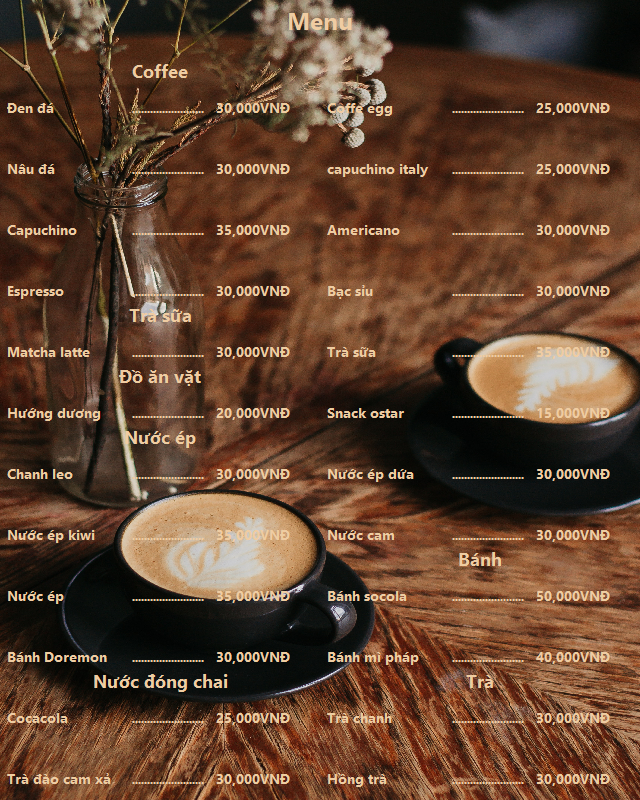
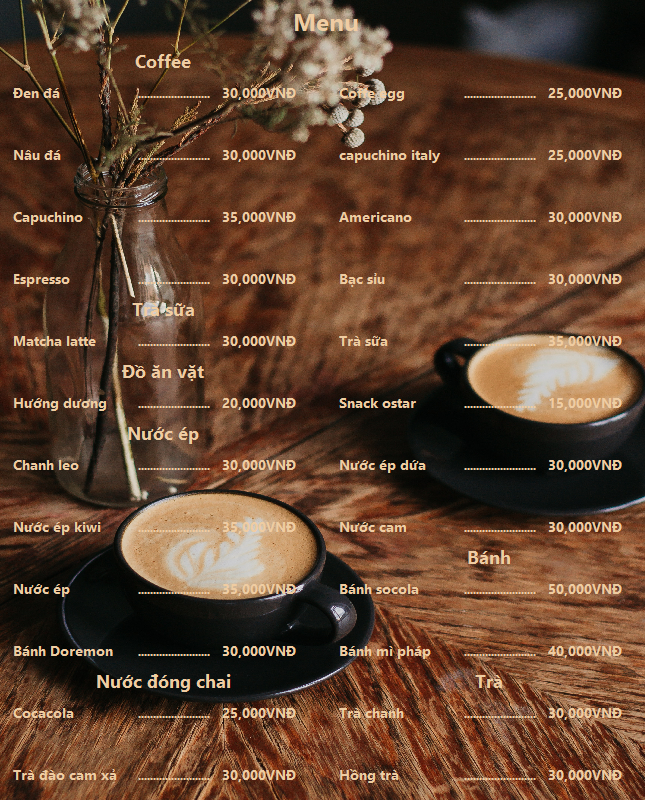
-menu better

diff --git a/src/main/java/com/view/form_Template/GenMenuFrame.java b/src/main/java/com/view/form_Template/GenMenuFrame.java
@@ -45,9 +45,14 @@ public class GenMenuFrame extends javax.swing.JFrame {
     private ArrayList<paneOfmenu> lstPaneMenu = new ArrayList<>();
     private ArrayList<ChiTietDoUong> lstChiTietDoUong = new ArrayList<>();
     private paneOfmenu paneMenu;
+
     public GenMenuFrame() {
         initComponents();
+        this.pack();
+        this.setLocationRelativeTo(null);
+        this.setVisible(true);
         panelMenuDisplay.setLayout(new BorderLayout());
+        panelMenuDisplay.setPreferredSize(new Dimension(650, 800));
         loadFirstAppear();
 //        this.setLayout(new BorderLayout());
     }
@@ -81,7 +86,7 @@ public class GenMenuFrame extends javax.swing.JFrame {
         panelMenuDisplay.setLayout(panelMenuDisplayLayout);
         panelMenuDisplayLayout.setHorizontalGroup(
             panelMenuDisplayLayout.createParallelGroup(javax.swing.GroupLayout.Alignment.LEADING)
-            .addGap(0, 618, Short.MAX_VALUE)
+            .addGap(0, 629, Short.MAX_VALUE)
         );
         panelMenuDisplayLayout.setVerticalGroup(
             panelMenuDisplayLayout.createParallelGroup(javax.swing.GroupLayout.Alignment.LEADING)
@@ -96,16 +101,19 @@ public class GenMenuFrame extends javax.swing.JFrame {
             layout.createParallelGroup(javax.swing.GroupLayout.Alignment.LEADING)
             .addGroup(layout.createSequentialGroup()
                 .addContainerGap(16, Short.MAX_VALUE)
-                .addGroup(layout.createParallelGroup(javax.swing.GroupLayout.Alignment.TRAILING)
-                    .addComponent(jButton3)
-                    .addComponent(jScrollPane1, javax.swing.GroupLayout.PREFERRED_SIZE, javax.swing.GroupLayout.DEFAULT_SIZE, javax.swing.GroupLayout.PREFERRED_SIZE))
-                .addContainerGap(17, Short.MAX_VALUE))
+                .addGroup(layout.createParallelGroup(javax.swing.GroupLayout.Alignment.LEADING)
+                    .addGroup(javax.swing.GroupLayout.Alignment.TRAILING, layout.createSequentialGroup()
+                        .addComponent(jButton3)
+                        .addContainerGap())
+                    .addGroup(javax.swing.GroupLayout.Alignment.TRAILING, layout.createSequentialGroup()
+                        .addComponent(jScrollPane1, javax.swing.GroupLayout.PREFERRED_SIZE, 625, javax.swing.GroupLayout.PREFERRED_SIZE)
+                        .addGap(14, 14, 14))))
         );
         layout.setVerticalGroup(
             layout.createParallelGroup(javax.swing.GroupLayout.Alignment.LEADING)
             .addGroup(layout.createSequentialGroup()
                 .addContainerGap()
-                .addComponent(jScrollPane1, javax.swing.GroupLayout.DEFAULT_SIZE, 567, Short.MAX_VALUE)
+                .addComponent(jScrollPane1)
                 .addGap(18, 18, 18)
                 .addComponent(jButton3)
                 .addContainerGap())
@@ -124,7 +132,7 @@ public class GenMenuFrame extends javax.swing.JFrame {
     public void loadFirstAppear() {
         lstChiTietDoUong = LstChiTietDoUong_singleton.getInstance().lstChiTietDoUongs;
         paneMenu = new paneOfmenu(lstChiTietDoUong, null);
-        paneMenu.setPreferredSize(new Dimension(640, 800));
+        paneMenu.setPreferredSize(new Dimension(645, 800));
         lstPaneMenu.add(paneMenu);
         setForm(lstPaneMenu.get(0));
     }
@@ -166,7 +174,7 @@ public class GenMenuFrame extends javax.swing.JFrame {
     public static BufferedImage getScreenShot(
             Component component) {
         BufferedImage image = new BufferedImage(
-                640, 800,
+                645, 800,
                 BufferedImage.TYPE_INT_RGB
         );
         // call the Component's paint method, using
